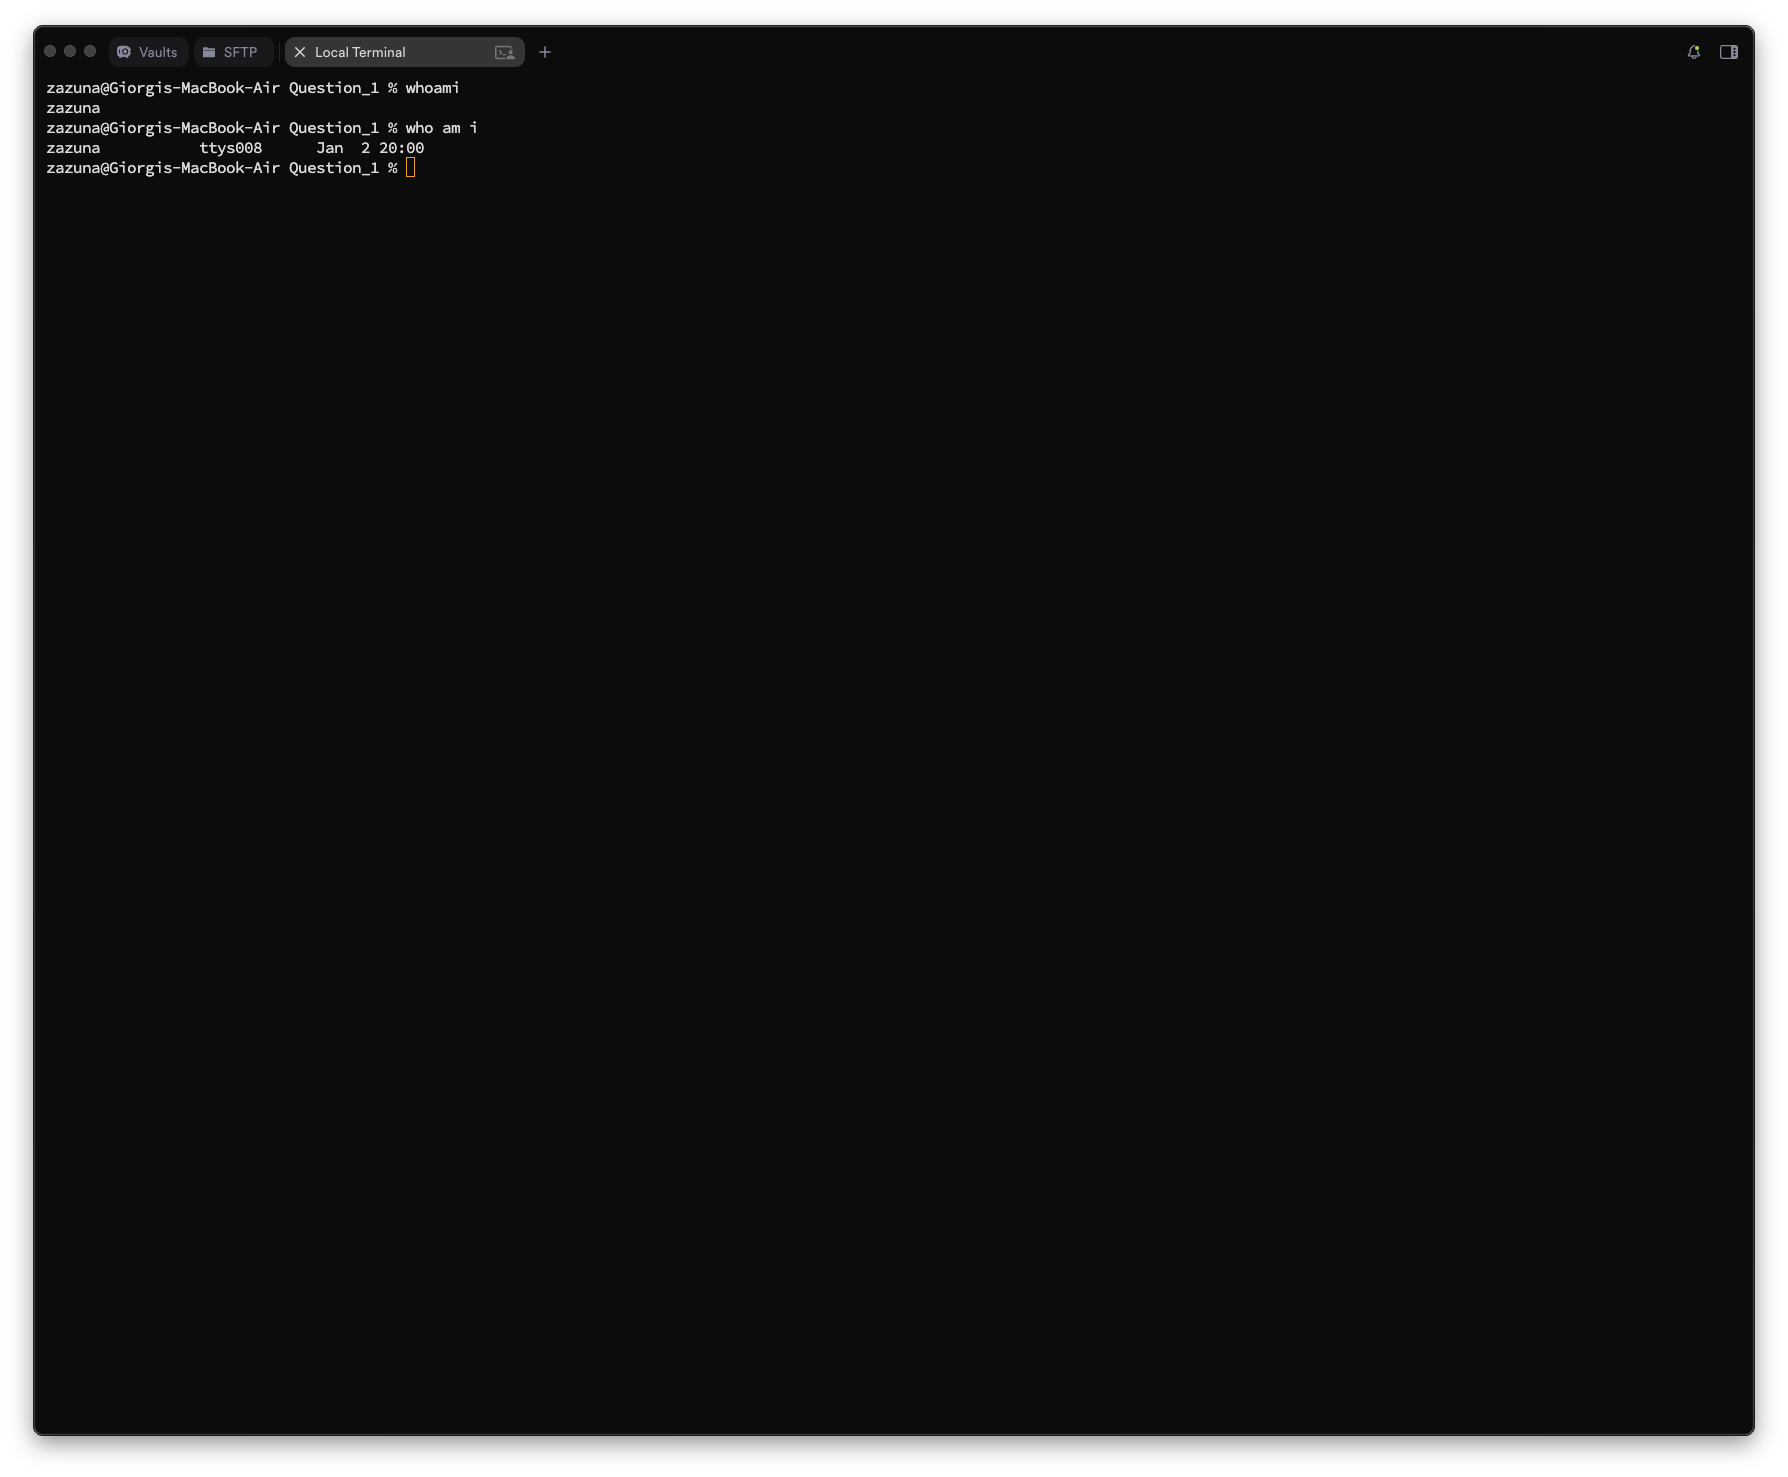
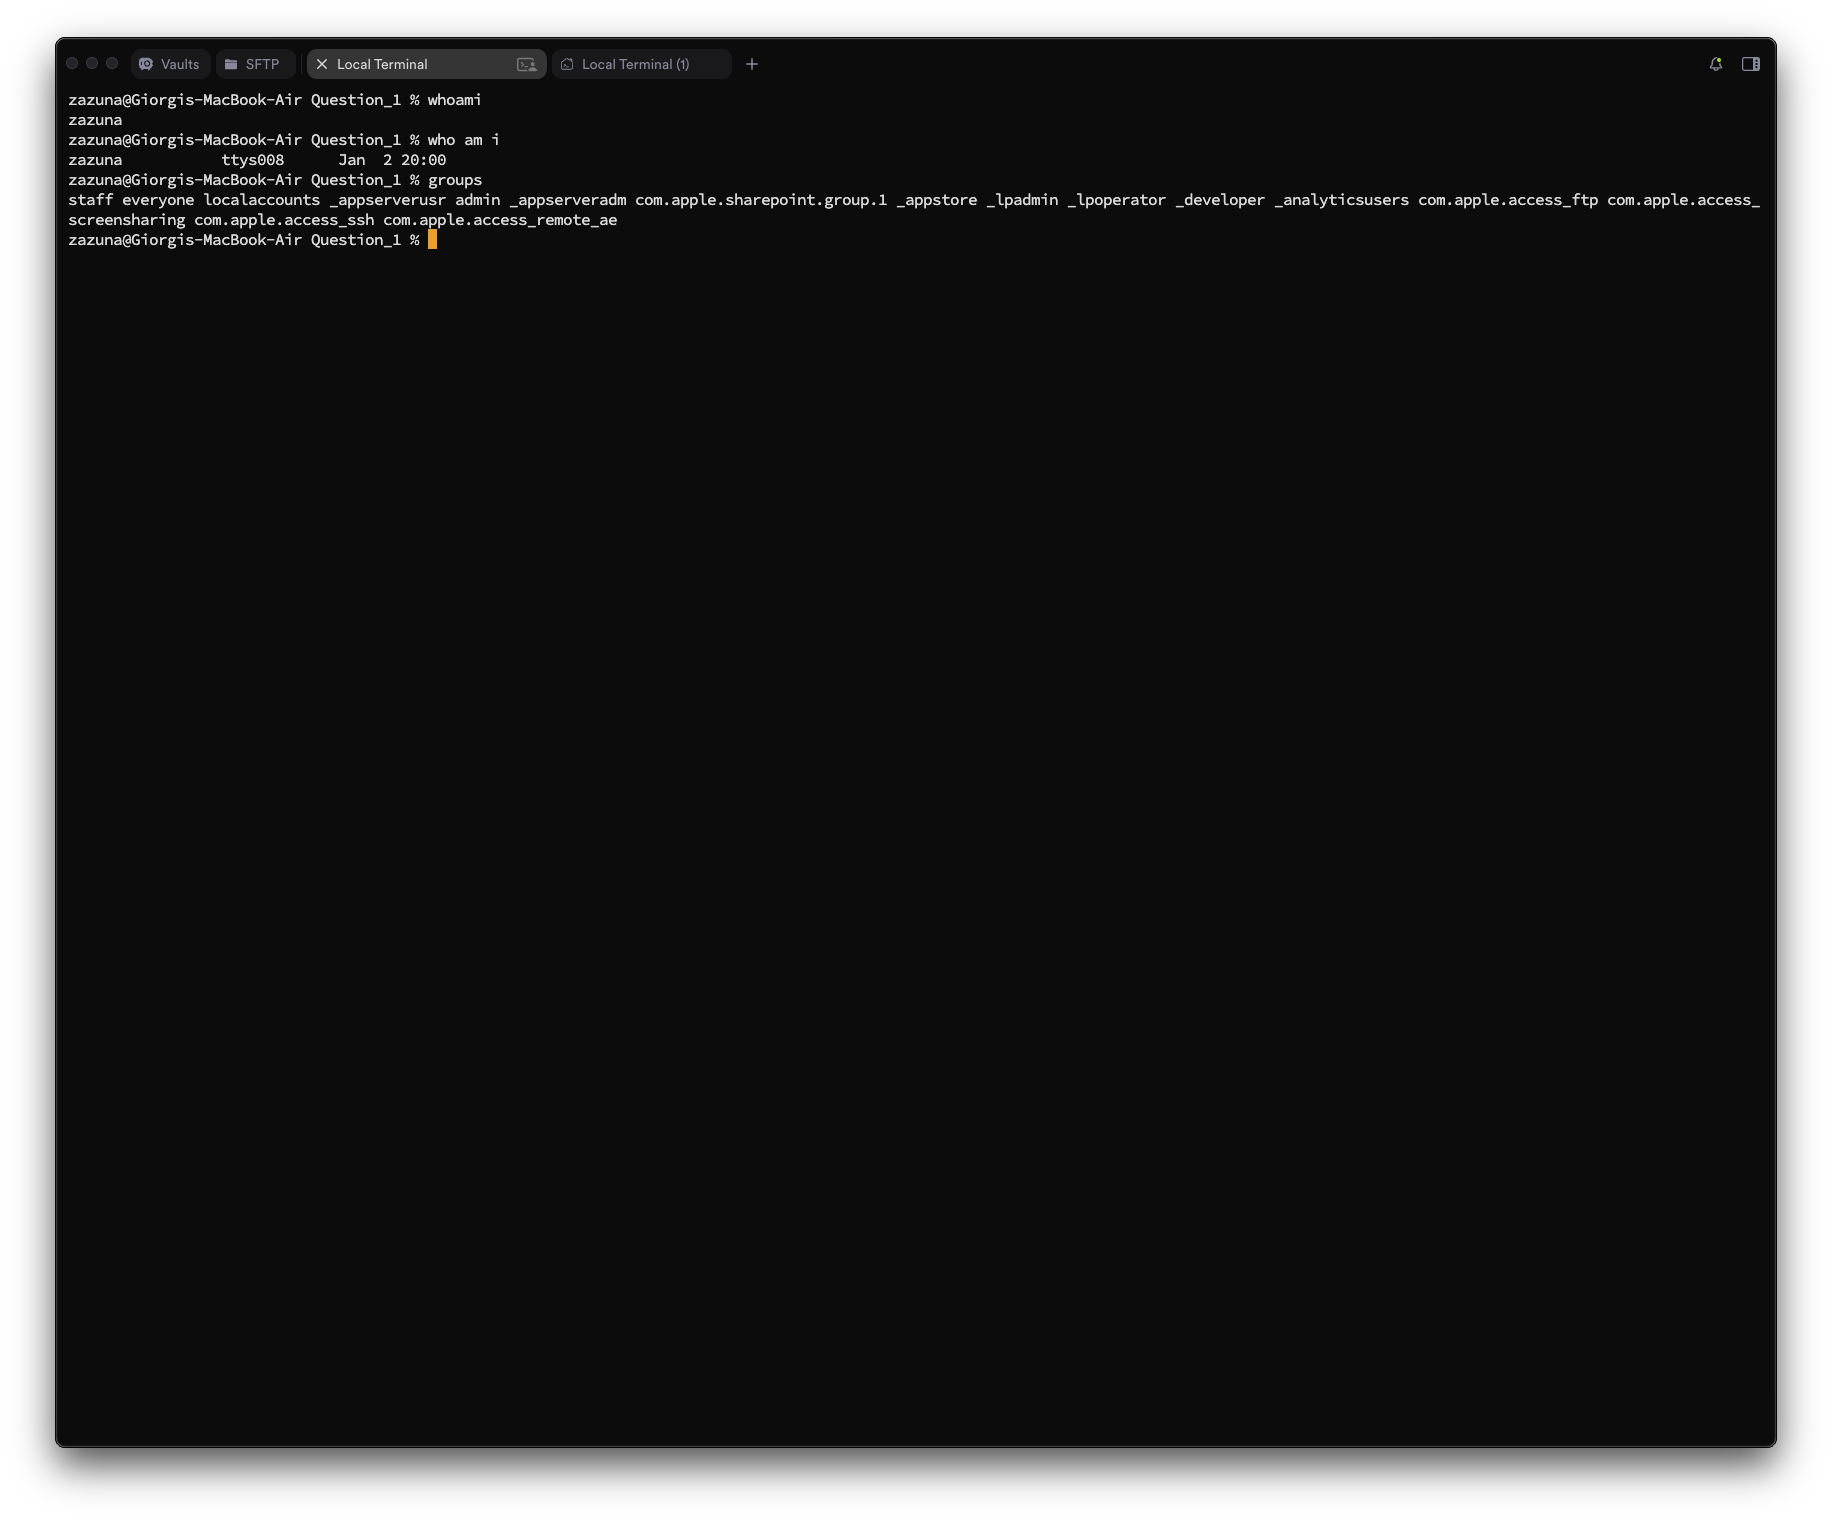
First Answer

diff --git a/Question_1/Readme.md b/Question_1/Readme.md
@@ -1,2 +1,23 @@
-### Question 1
-## Questioin 1_1
+# Question 1 — User Identity Verification
+
+## Task
+**Display your currently logged-in username and all groups your user account belongs to.**  
+✅ Your name/login ID must appear in the output.
+
+---
+
+## What I did
+I used:
+- `whoami` to print the currently logged-in username
+- `groups` to print all groups my user belongs to  
+(Optional alternative: `id` shows both in one command.)
+
+---
+
+## Commands
+```bash
+whoami
+groups
+
+# Optional (single command)
+id
